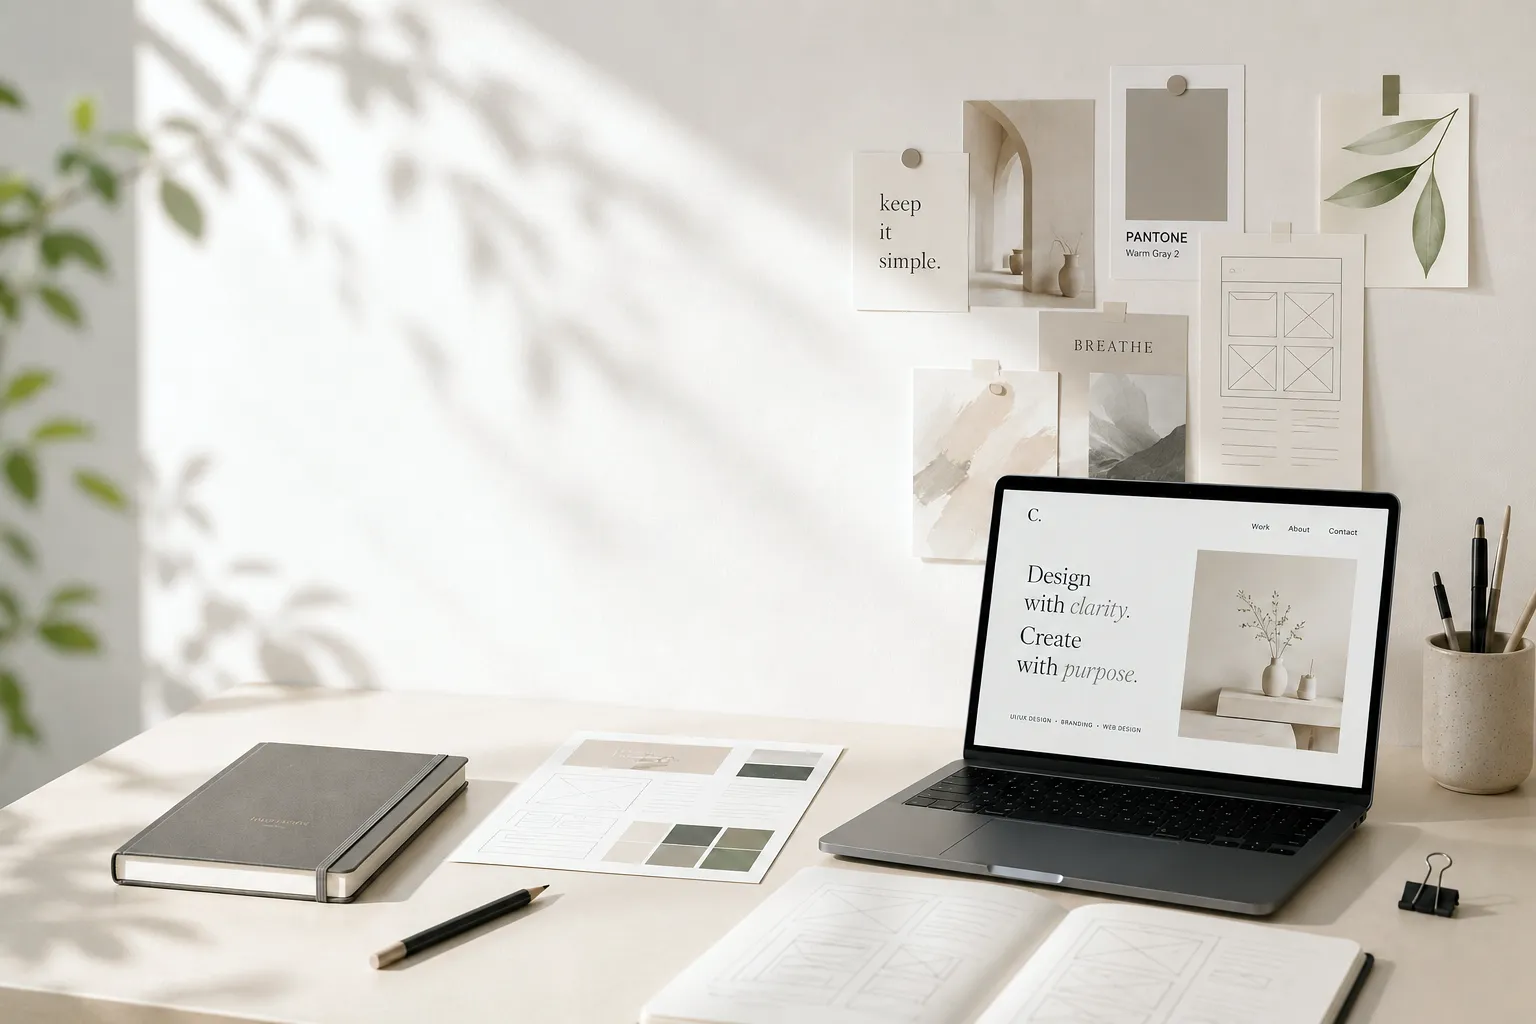
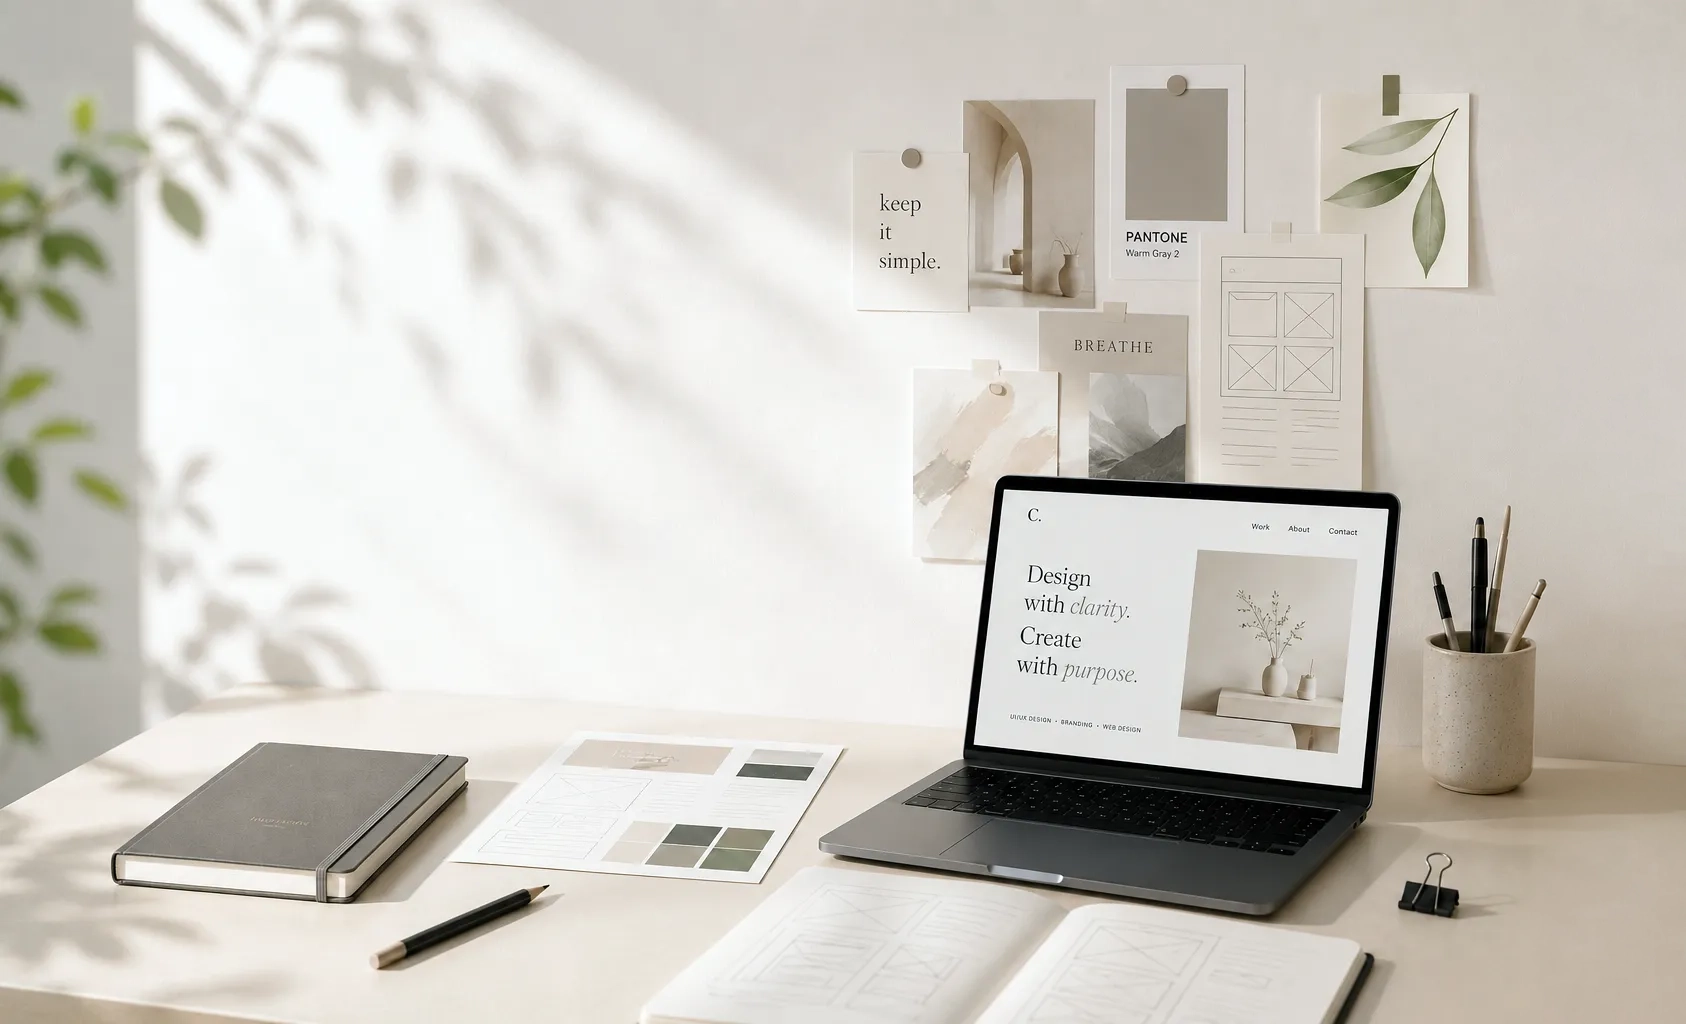
Update hero image

diff --git a/src/app/components/HomePage.tsx b/src/app/components/HomePage.tsx
@@ -282,7 +282,7 @@ export function HomePage() {
           <img
             src="/images/index/Hero-Banner.webp"
             alt="首頁圖片"
-            className="w-full h-full object-cover object-bottom"
+            className="w-full h-full object-cover object-right-bottom"
           />
           <div
             className="absolute inset-0"
